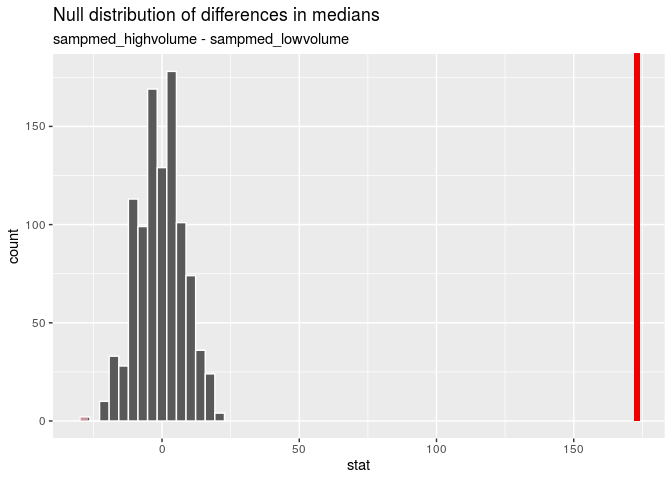
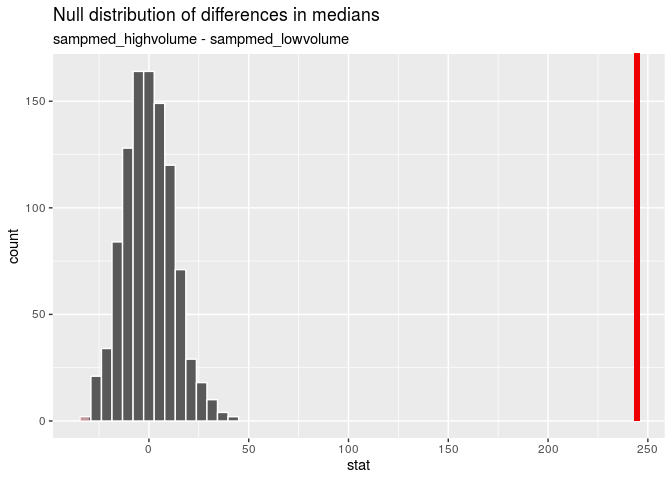
Finished Part II

diff --git a/data-analysis/data-analysis.md b/data-analysis/data-analysis.md
@@ -752,9 +752,9 @@ tidy(selected_model) %>%
 The selected linear model for this model is:
 
 `availability_365 = 59.923 + 26.396*(room_typePrivate room)
-+ 115.98*(room_typeShared room) + 0.481*(minimum_nights)
-+ 0.461*(number_of_reviews) + 0.853*(calculated_host_listings_count)
-+ 29.622*(price_caseMedian or Above) + 5.93*(reviews_per_month)`
++115.98*(room_typeShared room) + 0.481*(minimum_nights)
++0.461*(number_of_reviews) + 0.853*(calculated_host_listings_count)
++29.622*(price_caseMedian or Above) + 5.93*(reviews_per_month)`
 
 Determining R-squared:
 
@@ -774,16 +774,42 @@ coefficients.
 
 ### Host Volume
 
-  - lets add what it tells us about the renter - profile
+The last thing we have to consider, is the number of listings the host
+holds. This is significant because if whether a host hold multiple
+properties could influence their availbility. Also, those with multiple
+properties could use Airbnb renting as a business as a consistent source
+of income. We define a host as “high volume” if they hold more than one
+listing and “low volume” if they hold only one listing. Thus, it
+provides us with more information about the owner of the Airbnb.
 
-Looking at the hosts by the number of listings they hold and classifying
-into “high volume” or “low volume”:
+Since calculated\_host\_listings\_count includes non-NYC listings, we
+use the number of times host\_id exists in the sample to find the number
+of listings the host holds in NYC in our sample.
+
+ID is a unique number for the Airbnb listing, which would cause
+complications in this process, and is being removed intially. It is also
+independent of availability.
+
+``` r
+abnb_sample <- abnb_sample %>%
+  select(-(id))
+```
+
+Creating new dataframe abnb\_host\_volume and mutating new variable
+host\_volume as described above by counting frequency of each host\_id:
 
 ``` r
 abnb_host_volume <- abnb_sample %>%
-  mutate(host_volume = if_else(calculated_host_listings_count > 1, 
-                               "high volume", "low volume")) %>%
-  arrange(desc(calculated_host_listings_count))
+  count(host_id) %>%
+  mutate(host_volume = if_else(n> 1, "high volume", "low volume"))
+```
+
+Merging the two datasets abnb\_host\_volume and abnb\_sample by host\_id
+using inner\_join:
+
+``` r
+abnb_host_volume <- abnb_host_volume %>%
+  inner_join(abnb_sample, by = "host_id")
 ```
 
 Finding number of high volume hosts and low volume hosts:
@@ -796,19 +822,22 @@ abnb_host_volume %>%
     ## # A tibble: 2 x 2
     ##   host_volume     n
     ##   <chr>       <int>
-    ## 1 high volume  1355
-    ## 2 low volume   2645
+    ## 1 high volume   436
+    ## 2 low volume   3564
 
-Thus, 1355 of the hosts are high volume and 2645 of the hosts are low.
+Thus, 436 of the hosts are high volume and 3564 of the hosts are low
+volume.
 
 Conducting a hypothesis test if availability can be explained if someone
 is high volume or not:
 
-Ho = median availability of high volume hosts is the same as that of low
-volume hosts
+Ho: There is no difference in the median availability of high volume and
+low volume hosts.
 
-Ha = median availability of low volume hosts is the same as that of high
-volume hosts
+Ha: There is a difference in the median availability of high volume and
+low volume hosts.
+
+Finding observed median availability:
 
 ``` r
 abnb_host_volume %>%
@@ -820,12 +849,12 @@ abnb_host_volume %>%
     ## # A tibble: 2 x 2
     ##   host_volume medianavail
     ##   <chr>             <dbl>
-    ## 1 high volume         180
-    ## 2 low volume            7
+    ## 1 high volume        274.
+    ## 2 low volume          30
 
-The observed median availability of high volume hosts is 180 and that of
-low volume hosts is 7. The observed sample median difference in
-availability is 180 - 7 = 173
+The observed median availability of high volume hosts is 274.5 and that
+of low volume hosts is 30. The observed sample median difference in
+availability is 274.5 - 30.0 = 244.5.
 
 Constructing null distribution:
 
@@ -846,18 +875,18 @@ Visualizing null distribution:
 visualise(hypo_host_volume_listings) +
  labs(title = "Null distribution of differences in medians",
  subtitle = "sampmed_highvolume - sampmed_lowvolume") +
-  shade_p_value(obs_stat = 173, 
+  shade_p_value(obs_stat = 244.5, 
                 direction = "two_sided")
 ```
 
 ![](data-analysis_files/figure-gfm/vis-hypo-hostvolume-1.png)<!-- -->
 
-Calculating p-value:
+From the visualization, there appears to be no overlap between the
+shaded region and the null distribution. A p-value was found to confirm
+this:
 
 ``` r
-hypo_host_volume_listings%>%
-  filter(stat >= 173) %>%
-  summarise(p_value = 2*n()/nrow(hypo_host_volume_listings))
+get_p_value(hypo_host_volume_listings, 244.5, direction = "two_sided")
 ```
 
     ## # A tibble: 1 x 1
@@ -865,18 +894,15 @@ hypo_host_volume_listings%>%
     ##     <dbl>
     ## 1       0
 
-The p-value is 0. Since the p-value of this hypothesis test is p \<
-0.05, we reject the null hypothesis in favor of the alternative. This
-means that there is significant evidence that there is a difference in
-the median availability of high volume hosts and low volume hosts.
+As expected, the p-value is 0, which is less than the significance value
+of 0.05. Therefore, we reject the null hypothesis that there is no
+difference in median availability. This means that there is sufficient
+evidence that there is a difference in the median availability of high
+volume hosts and low volume hosts. Thus, to estimate the difference we
+construct a bootstrap simulation and find the 95% confidence interval.
 
-…construct confidence interval if this makes sense…
-
-This means there is a significant difference. Thus, to estimate the
-difference we construct a bootstrap simulation and find the 95%
-confidence interval.
-
-Generating the bootstrap distribution:
+Constructing a confidence interval to find the difference in median
+availability:
 
 ``` r
 set.seed(111519)
@@ -888,7 +914,7 @@ boot_hostvolume <- abnb_host_volume %>%
             order = c("high volume", "low volume"))
 ```
 
-Constructing 95% confidence interval for this difference in medians:
+Constructing 95% confidence interval:
 
 ``` r
 (cibounds1 <- get_ci(boot_hostvolume, level = 0.95))
@@ -897,27 +923,11 @@ Constructing 95% confidence interval for this difference in medians:
     ## # A tibble: 1 x 2
     ##   `2.5%` `97.5%`
     ##    <dbl>   <dbl>
-    ## 1   166.    200.
+    ## 1    219    261.
 
-Based on the results, we are 95% confident that the median availibility
-of the listings held by high volume hosts is between 165.98 to 200.012
-higher than that of low volume hosts.
+We are 95% confident that the median availability for high volume hosts
+is between 219 to 261.025 days greater than that of low volume hosts.
 
-``` r
-abnb_sample <- abnb_sample %>%
-  select(-(id))
-```
+### Looking At Everything
 
-``` r
-abnb_test <- abnb_sample %>%
-  count(host_id) %>%
-  mutate(host_volume = if_else(n> 1, "high volume", "low volume"))
-```
-
-``` r
-abnb_test <- abnb_test %>%
-  inner_join(abnb_sample, by = "host_id") %>%
-  arrange(desc(n))
-```
-
-AIC for everything price/availability
+### Overall
